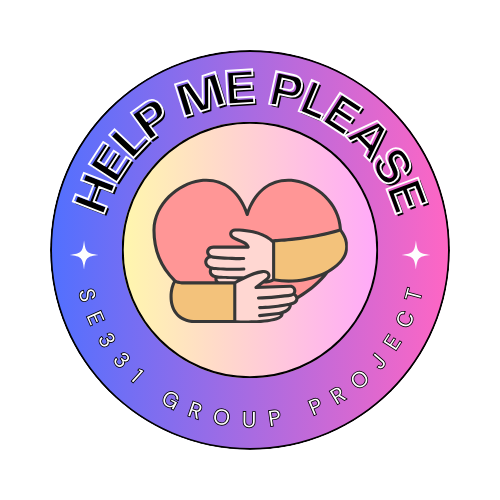
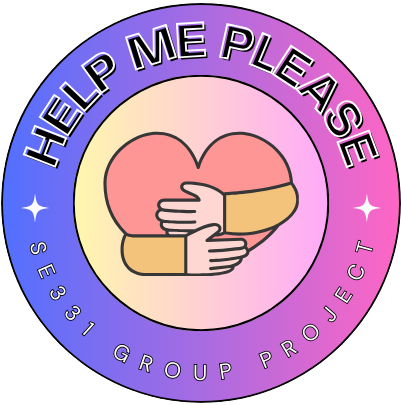
login page and register setup

diff --git a/src/views/LoginView.vue b/src/views/LoginView.vue
@@ -2,18 +2,16 @@
   <div class="flex min-h-full flex-1 flex-col justify-center px-6 py-12 lg:px-8">
 
     <div class="sm:mx-auto sm:w-full sm:max-w-sm">
-      <img class="mx-auto h-[160px] w-auto" src="../assets/bodymoms.png" alt="Your Company">
-      <h2 class="mt-4 text-center text-lg font-bold leading-9 tracking-tight text-gray-900">Welcome to SE331 Project -
-        BodyMom</h2>
-      <h2 class="mt-1 text-center text-lg font-bold leading-9 tracking-tight text-blue-700">Log in to your account</h2>
+      <img class="mx-auto h-[350px] w-auto" src="../assets/navlogo.png" alt="Your Company">
+      <h2 class="mt-1 text-center text-lg font-bold leading-9 tracking-tight text-pink-600">Sign in to system</h2>
     </div>
 
     <div class="mt-3 sm:mx-auto sm:w-full sm:max-w-sm">
       <form class="space-y-6" action="#" @submit.prevent="onSubmit">
         <div>
-          <label for="email" class="block text-sm font-medium leading-6 text-gray-900">Email Address</label>
+          <label for="email" class="block text-sm font-medium leading-6 text-gray-900">Username</label>
           <InputText type="text" v-model="email" class="text-emerald-600 text-sm font-semibold"
-            placeholder="example@example.com"></InputText>
+            placeholder="Enter Your Username"></InputText>
           <div v-if="errors['email']" class="text-red-500 text-sm my-2" style="font-weight: 600; font-size: small;">❌ {{
             errors['email'] }}</div>
         </div>
@@ -21,12 +19,12 @@
           <div class="flex items-center justify-between">
             <label for="password" class="block text-sm font-medium leading-6 text-gray-900">Password</label>
             <div class="text-sm">
-              <a href="#" class="font-semibold text-indigo-600 hover:text-indigo-500">Forgot password</a>
+              <a href="#" class="font-semibold text-pink-600 hover:text-pink-500">Forgot password</a>
             </div>
           </div>
           <div class="mt-2">
             <InputText v-model="password" type="password" class="text-emerald-600 text-sm font-semibold"
-              placeholder="Enter Password (at least 6 characters long)"></InputText>
+              placeholder="Enter Your Password"></InputText>
             <div v-if="errors['password']" class="text-red-500 text-sm my-2" style="font-weight: 600; font-size: small;">❌
               {{ errors['password'] }}</div>
 
@@ -39,15 +37,15 @@
           </div>
           <FlashMessage />
           <button type="submit"
-            class="flex w-full justify-center rounded-md bg-indigo-600 px-3 py-1.5 text-sm font-semibold leading-6 text-white shadow-sm
-                    hover:bg-indigo-500 focus-visible:outline focus-visible:outline-2 focus-visible:outline-offset-2 focus-visible:outline-indigo-600">Log
+            class="flex w-full justify-center rounded-md bg-pink-600 px-3 py-1.5 text-sm font-semibold leading-6 text-white shadow-sm
+                    hover:bg-pink-700 focus-visible:outline focus-visible:outline-2 focus-visible:outline-offset-2 focus-visible:outline-pink-600">Sign
             in</button>
         </div>
       </form>
       <p class="mt-10 text-center text-sm text-gray-500">
         Doesn't have an account yet?
         {{ ' ' }}
-        <RouterLink :to="{ name: 'register-page' }" class="font-semibold leading-6 text-indigo-600 hover:text-indigo-400">
+        <RouterLink :to="{ name: 'register-page' }" class="font-semibold leading-6 text-pink-600 hover:text-pink-400">
           Try to register here</RouterLink>
       </p>
 

diff --git a/src/views/RegisterView.vue b/src/views/RegisterView.vue
@@ -77,9 +77,9 @@ const onSubmit = handleSubmit((values) => {
 <template>
   <div class="flex min-h-full flex-1 flex-col justify-center px-6 py-12 lg:px-8">
     <div class="sm:mx-auto sm:w-full sm:max-w-sm">
-      <img class="mx-auto h-[160px] w-auto" src="../assets/bodymoms.png" alt="" />
+      <img class="mx-auto h-[350px] w-auto" src="../assets/help.png" alt="" />
 
-      <h2 class="mt-3 text-center text-2xl font-bold leading-9 tracking-tight text-blue-700">
+      <h2 class="mt-3 text-center text-2xl font-bold leading-9 tracking-tight text-pink-700">
         Register to your account
       </h2>
     </div>
@@ -138,8 +138,8 @@ const onSubmit = handleSubmit((values) => {
             <h4>{{ message }}</h4>
           </div>
           <button type="submit"
-            class="flex w-full justify-center rounded-md bg-indigo-600 px-3 py-1.5 text-sm font-semibold leading-6 text-white shadow-sm
-                    hover:bg-indigo-500 focus-visible:outline focus-visible:outline-2 focus-visible:outline-offset-2 focus-visible:outline-indigo-600">
+            class="flex w-full justify-center rounded-md bg-pink-600 px-3 py-1.5 text-sm font-semibold leading-6 text-white shadow-sm
+                    hover:bg-pink-500 focus-visible:outline focus-visible:outline-2 focus-visible:outline-offset-2 focus-visible:outline-pink-600">
             Register
           </button>
 
@@ -152,7 +152,7 @@ const onSubmit = handleSubmit((values) => {
 
         {{ ' ' }}
 
-        <RouterLink :to="{ name: 'Login' }" class="font-semibold leading-6 text-indigo-600 hover:text-indigo-400">Log in
+        <RouterLink :to="{ name: 'Login' }" class="font-semibold leading-6 text-pink-600 hover:text-pink-400">Log in
         </RouterLink>
       </p>
     </div>

diff --git a/src/views/HomeView.vue b/src/views/HomeView.vue
@@ -5,7 +5,7 @@
 <template>
   <main class="flex flex-col items-center justify-center  text-black">
     <!-- <h1 class="font-fig text-3xl font-bold py-4 text-center">Component-Based Software Development</h1> -->
-    <a href="/" class="flex items-center"><img src="../assets/help.png" alt="" class="animate-fade-down rounded " /></a>
+    <a href="/Login" class="mt-3 flex items-center "><img src="../assets/help.png" alt="" class="animate-fade-down rounded " /></a>
     
     <br>
     <!-- <p class="font-fig font-bold text-base ">Group Name: Help Me PLEASE</p> -->

diff --git a/src/components/Navbar.vue b/src/components/Navbar.vue
@@ -63,7 +63,7 @@ if (token && userRole && id) {
             <RouterLink to="/add">Add Person</RouterLink>
           </li>
           <li v-if="!authStore.userRole" class="font-dm mb-2 hover:bg-blue-100 p-3 rounded-md flex items-center">
-            <img src="../assets/login.png" class="h-[12px] ml-1 mr-2">
+            <img src="../assets/login.png" class="h-[22px] ml-1 mr-2">
             <RouterLink to="/Login">Login</RouterLink>
           </li>
           <li v-if="authStore.userRole == 'ROLE_STUDENT'"

diff --git a/src/assets/main.css b/src/assets/main.css
@@ -7,6 +7,14 @@ body {
   background: linear-gradient(135deg,#ffa9f9, #fff7ad  );
 }
 
+.submit-btn{
+  background-color: #5170ff;
+}
+
+.submit-btn:hover{
+  background-color: #ff66c4;
+}
+
 .font-dm {
   font-family: 'DM Sans', sans-serif;
 }
